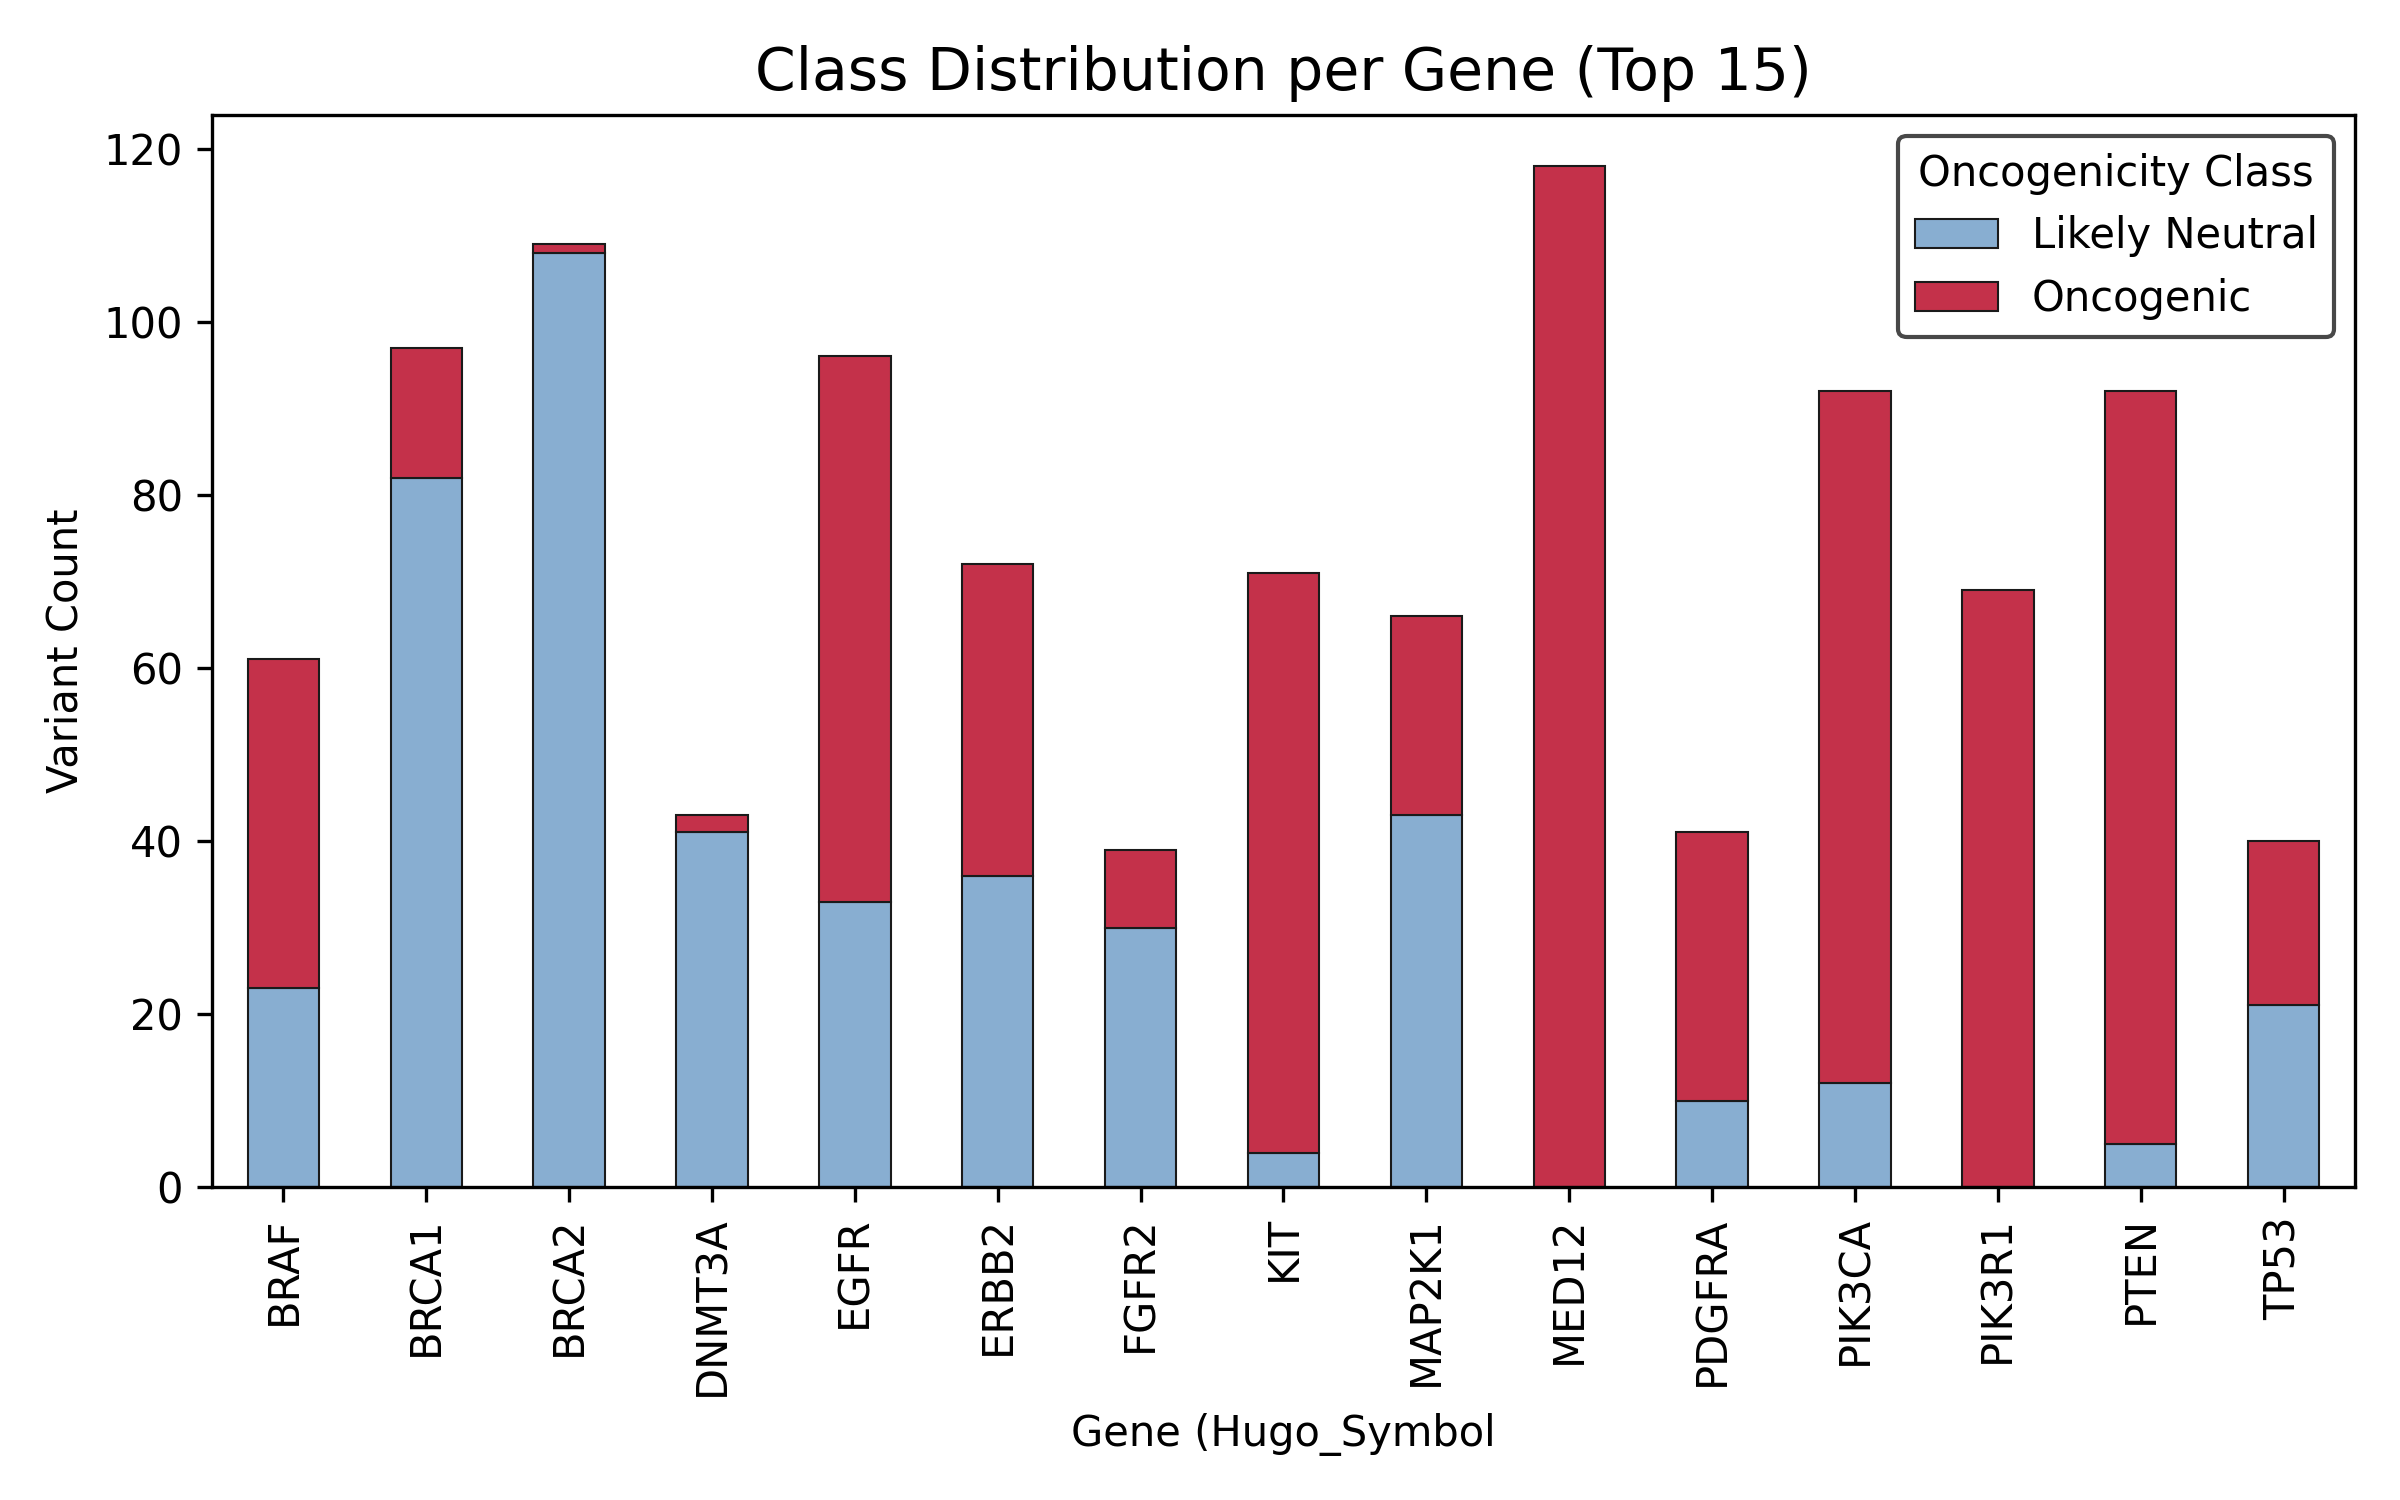
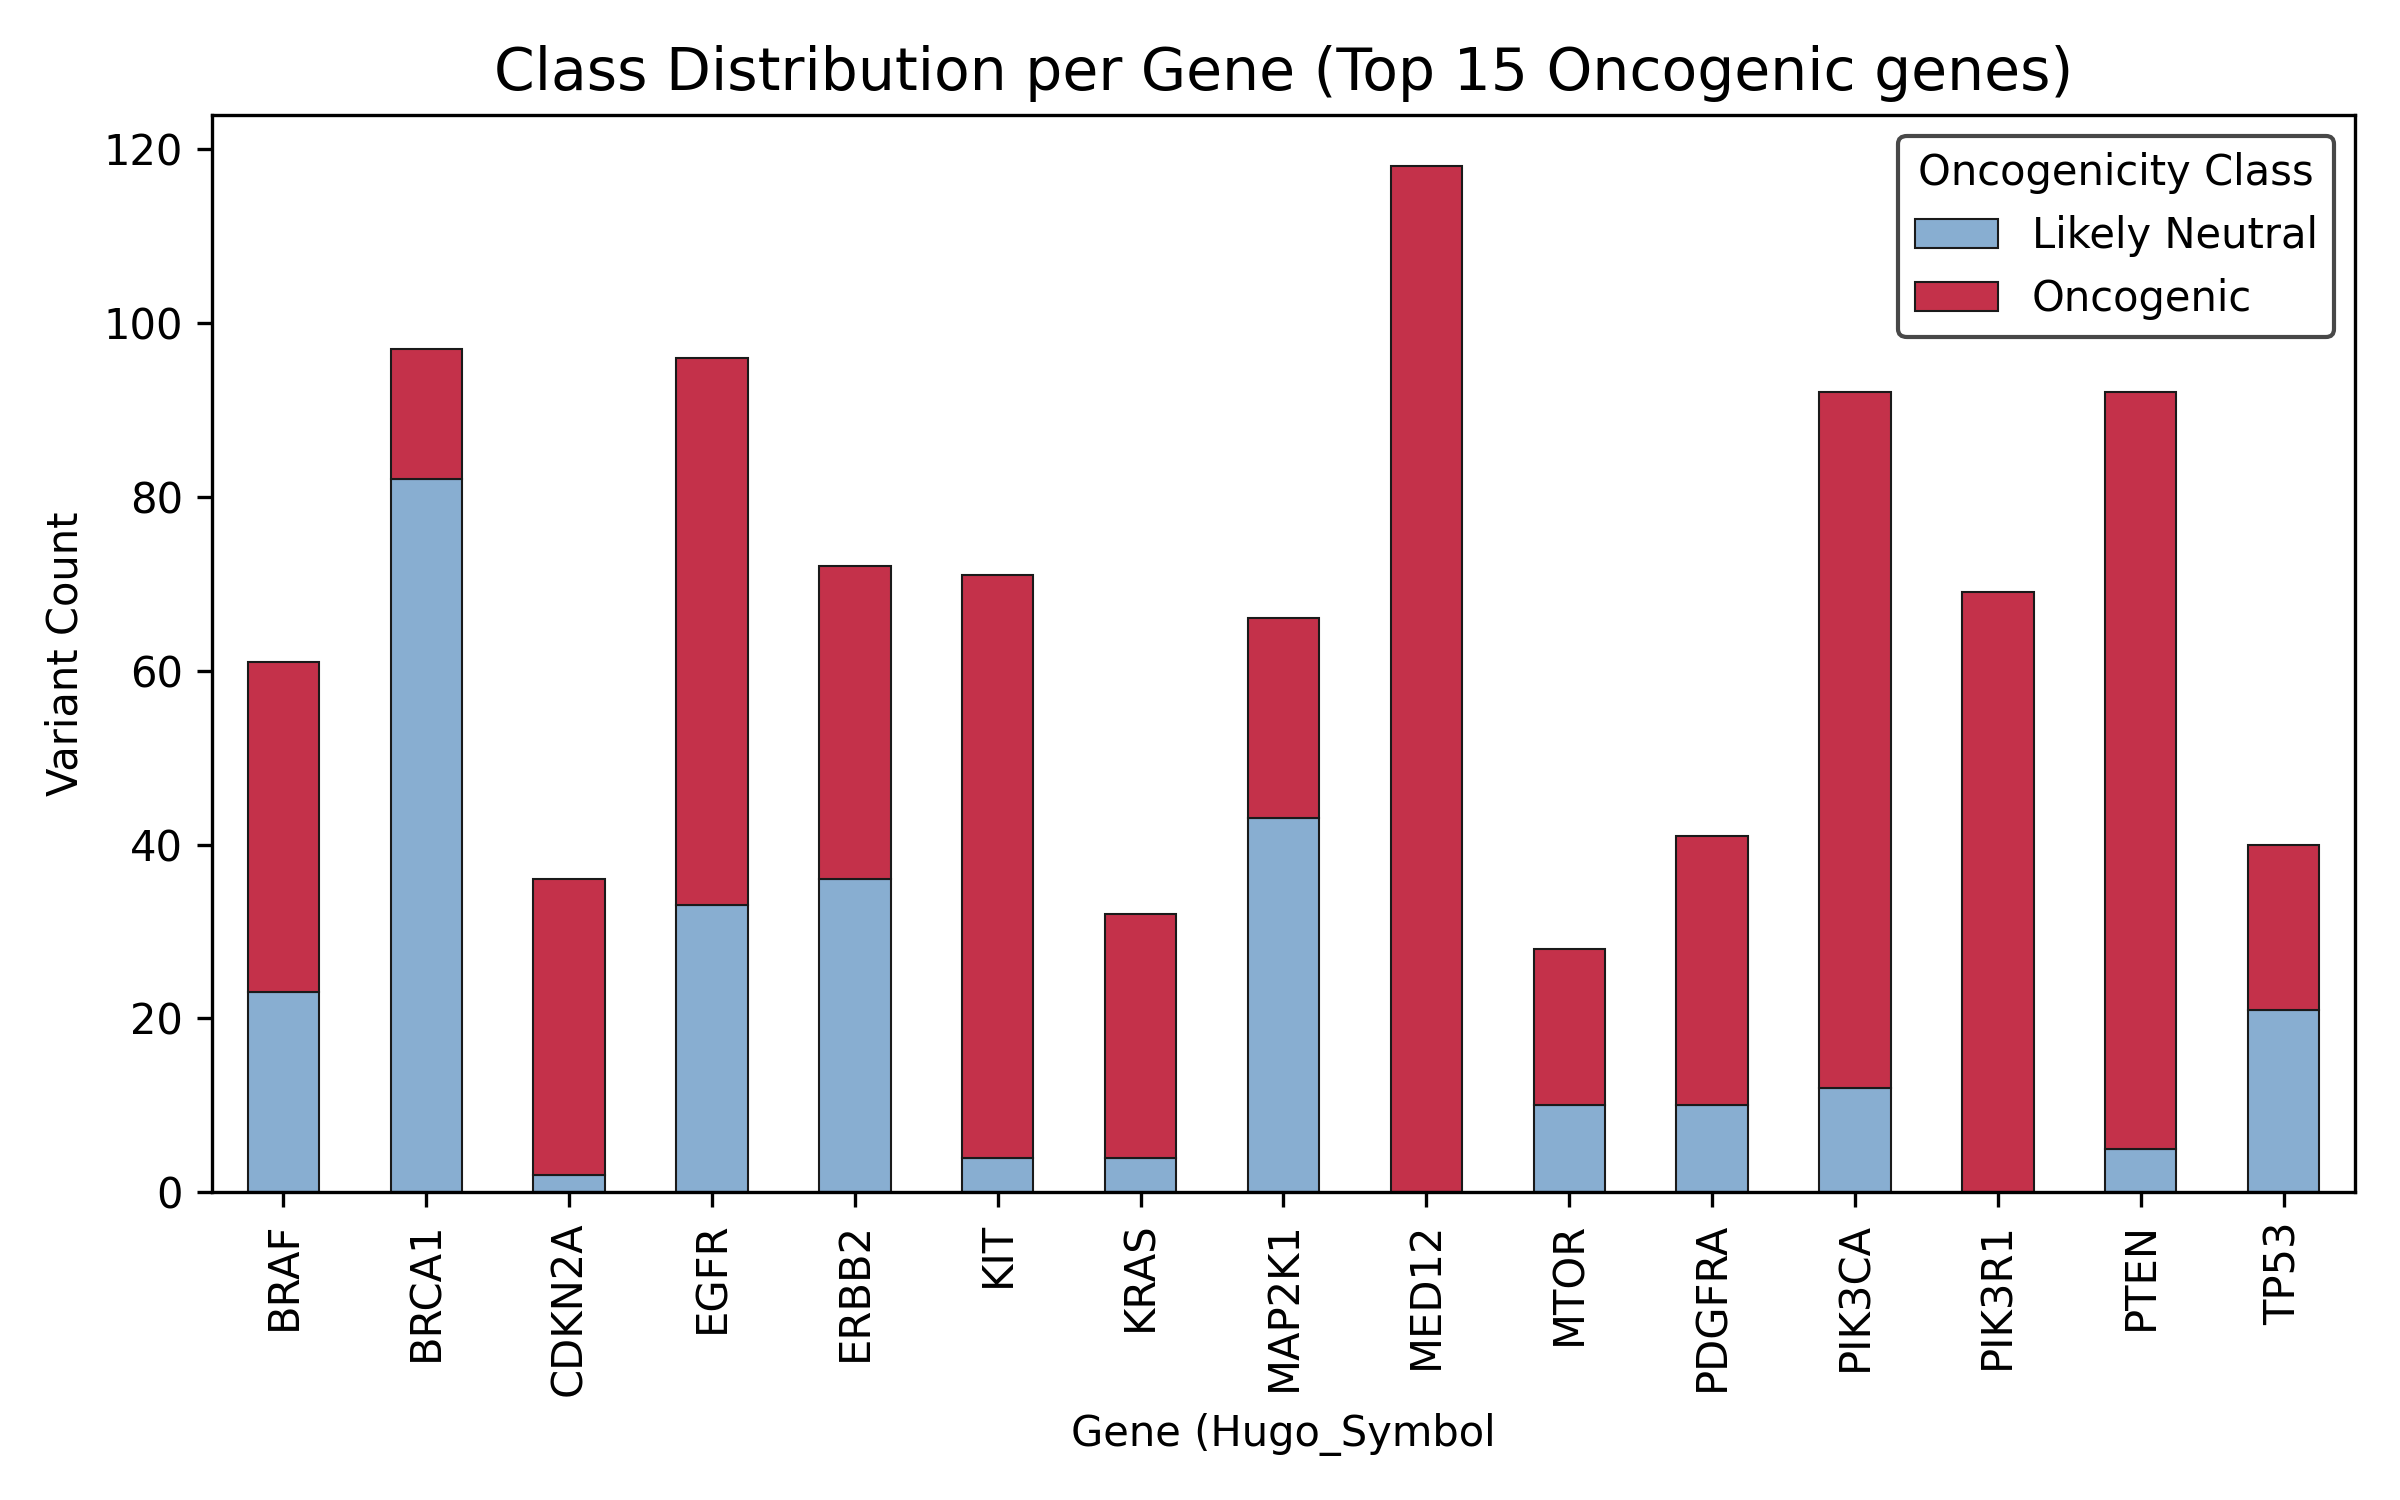
update gene plot EDA, readme

diff --git a/README.md b/README.md
@@ -10,7 +10,7 @@ multiple feature sets, with Random Forest achieving the best performance.
     <img src="images/ml_pipeline.png" alt="Dataflow" width="600">
   </p>
   <figcaption align="center">
-    <b>Figure 1:</b> Machine learning pipeline for oncogenicity classification. The pipeline begins with preprocessing and exploratory data analysis, followed by data preparation including feature engineering and data splitting. Five datasets were constructed, each passed through three classifiers (Logistic Regression, Random Forest and XGBoost). Cross-validation and hyperparameter tuning were applied to each classifier. The best performing model per classifier were selected based on F1-score. All three models were evaluated on the test set using F1-score, classification report and confusion matrix. The overall best classifier was identified and applied to subsets of variants within genes with high variant counts. The figure was designed by the author and rendered using the Claude (Anthropic) language model. 
+    <b>Figure 1:</b> Machine learning pipeline for oncogenicity classification. The pipeline begins with preprocessing and exploratory data analysis, followed by data preparation including feature engineering and data splitting. Five datasets were constructed, each passed through three classifiers (Logistic Regression, Random Forest and XGBoost). Cross-validation and hyperparameter tuning were applied to each classifier. The best performing model per classifier were selected based on F1-score. All three models were evaluated on the test set using F1-score, classification report and confusion matrix. The overall best classifier was identified and applied to subsets of variants within top oncogenic genes. The figure was designed by the author and rendered using the Claude (Anthropic) language model. 
   </figcaption>
 </figure>
 
